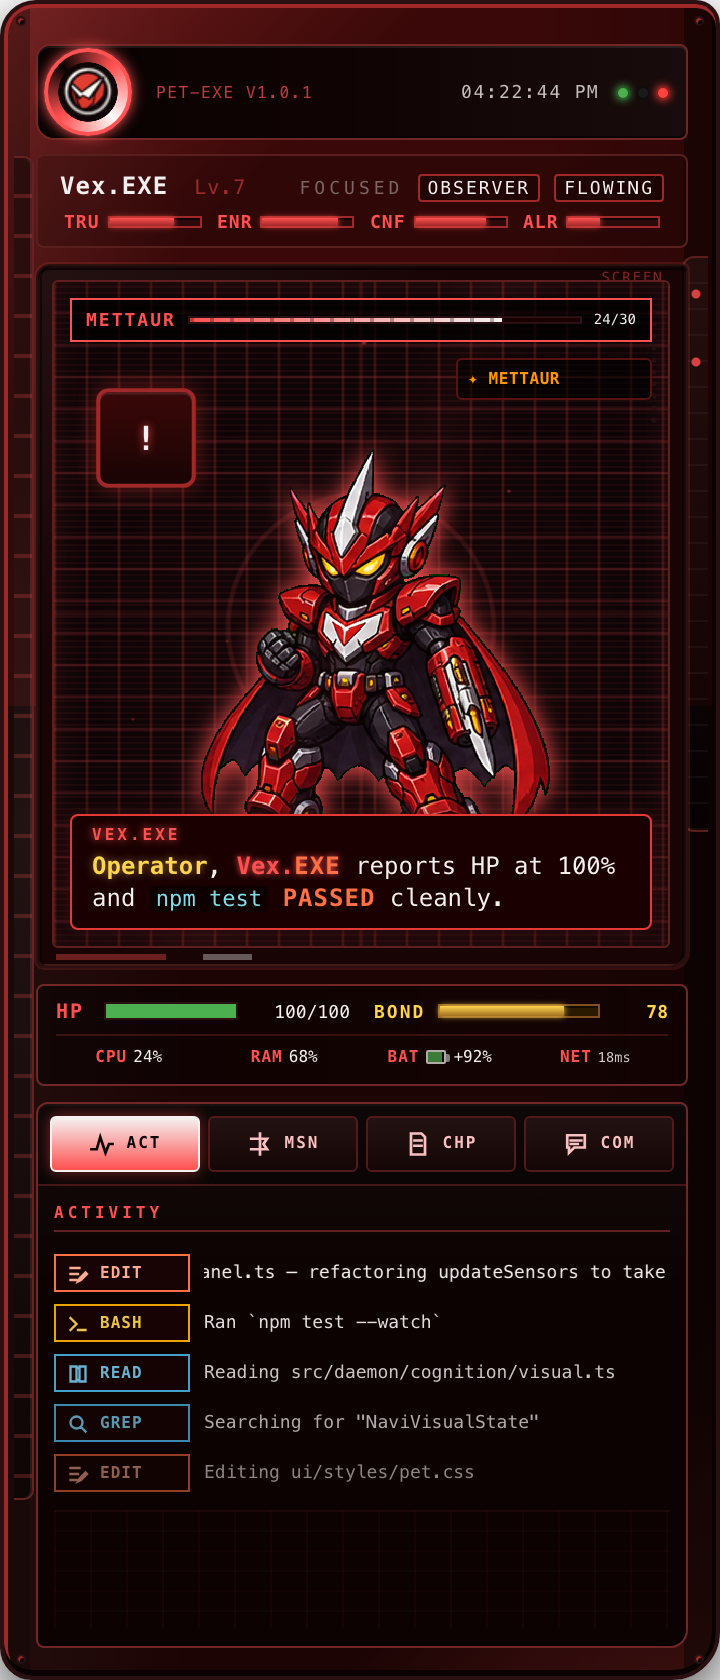
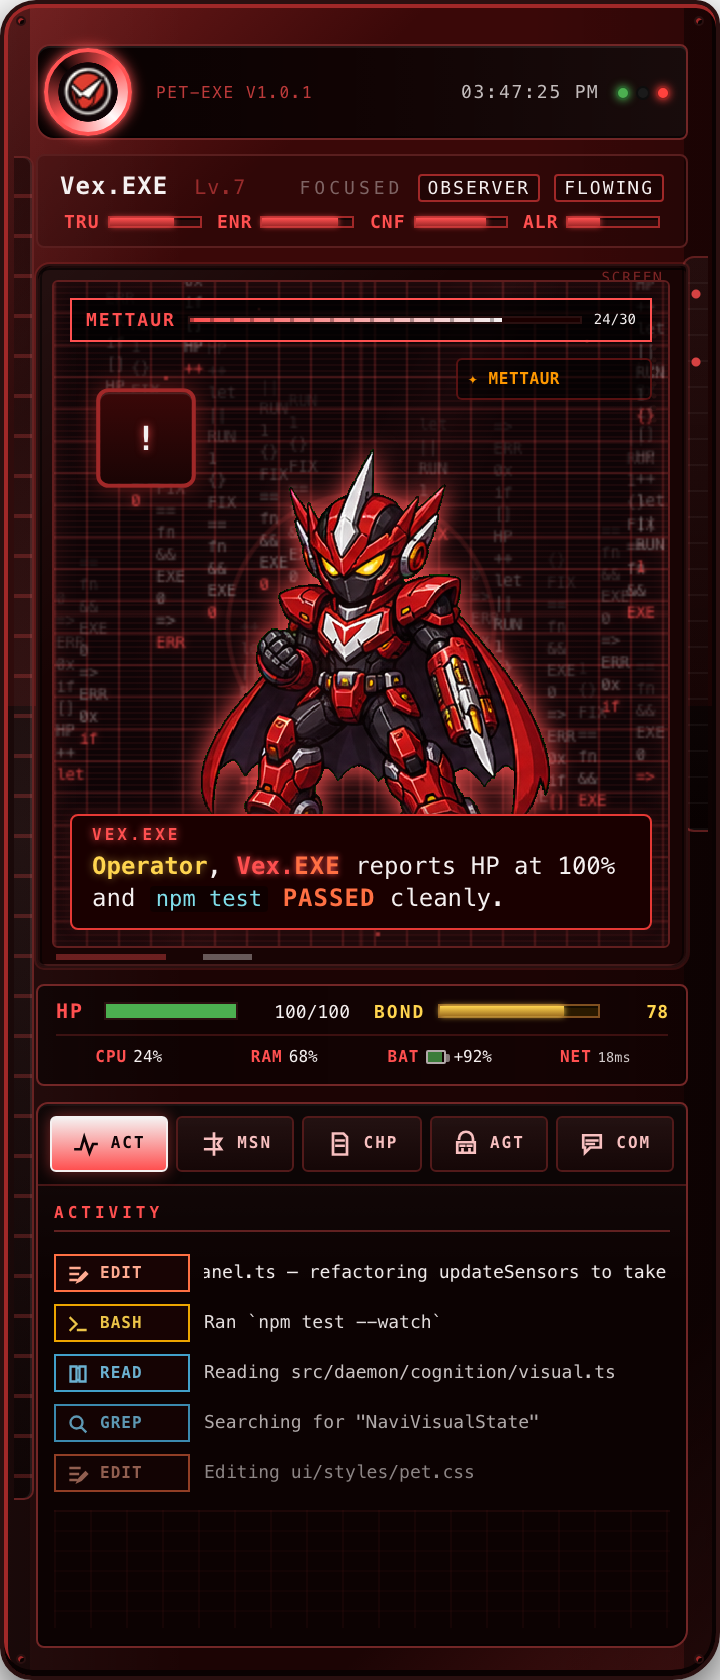
docs: agents tab + pop-out mode + refreshed screenshots

diff --git a/README.md b/README.md
@@ -72,16 +72,18 @@ Each Navi animates across **10 states × 6 frames** — idle, battle stance, att
 
 ## The PET — tabbed home + diagnostics
 
-The widget's home screen is a tabbed deck: **Activity** (recent tool events + dialogue), **Mission** (current focus + chip drops), **Chips** (your 4-chip loadout + cooldowns), **Chat** (typed conversation with your Navi).
+The widget's home screen is a tabbed deck with five sections: **Activity** (recent tool events + dialogue), **Mission** (current focus + chip drops), **Chips** (your 4-chip loadout + cooldowns), **Agents** (multi-agent observability), **Chat** (typed conversation with your Navi).
 
-A **multi-agent panel** surfaces up to 5 active Claude Code + Codex CLI sessions — status, last tool, project name, age — so you can spot a `Permit?` prompt waiting across many concurrent agents from one widget.
+The **Agents** tab surfaces up to 5 active Claude Code + Codex CLI sessions — status, last tool, project name, age — so you can spot a `Permit?` prompt waiting across many concurrent agents from one widget.
 
-Right-clicking the device opens a context menu (Switch Navi / Diagnostics / Refresh state). **Diagnostics** mode flips the PET into a live observability surface — vitals, ops, memory pressure, sensor readouts — without leaving the widget.
+Right-clicking the device opens a context menu (Switch Navi / **Pop Out** / Diagnostics / Refresh state). **Diagnostics** mode flips the PET into a live observability surface — vitals, ops, memory pressure, sensor readouts — without leaving the widget. **Pop Out** shrinks to a tiny mini-mode (just the Navi + speech bubble) for when you want it on-screen but out of the way.
 
 <p align="center">
-  <img src="images/widget-chips.png"        width="200" alt="Chip loadout view">
-  <img src="images/widget-right-click.png"  width="200" alt="Right-click context menu">
-  <img src="images/widget-diagnostics.png"  width="200" alt="Diagnostics mode">
+  <img src="images/widget-chips.png"        width="160" alt="Chip loadout view">
+  <img src="images/widget-tab-agents.png"   width="160" alt="Multi-agent panel">
+  <img src="images/widget-popout.png"       width="160" alt="Pop-out mini mode">
+  <img src="images/widget-right-click.png"  width="160" alt="Right-click context menu">
+  <img src="images/widget-diagnostics.png"  width="160" alt="Diagnostics mode">
 </p>
 
 ---
